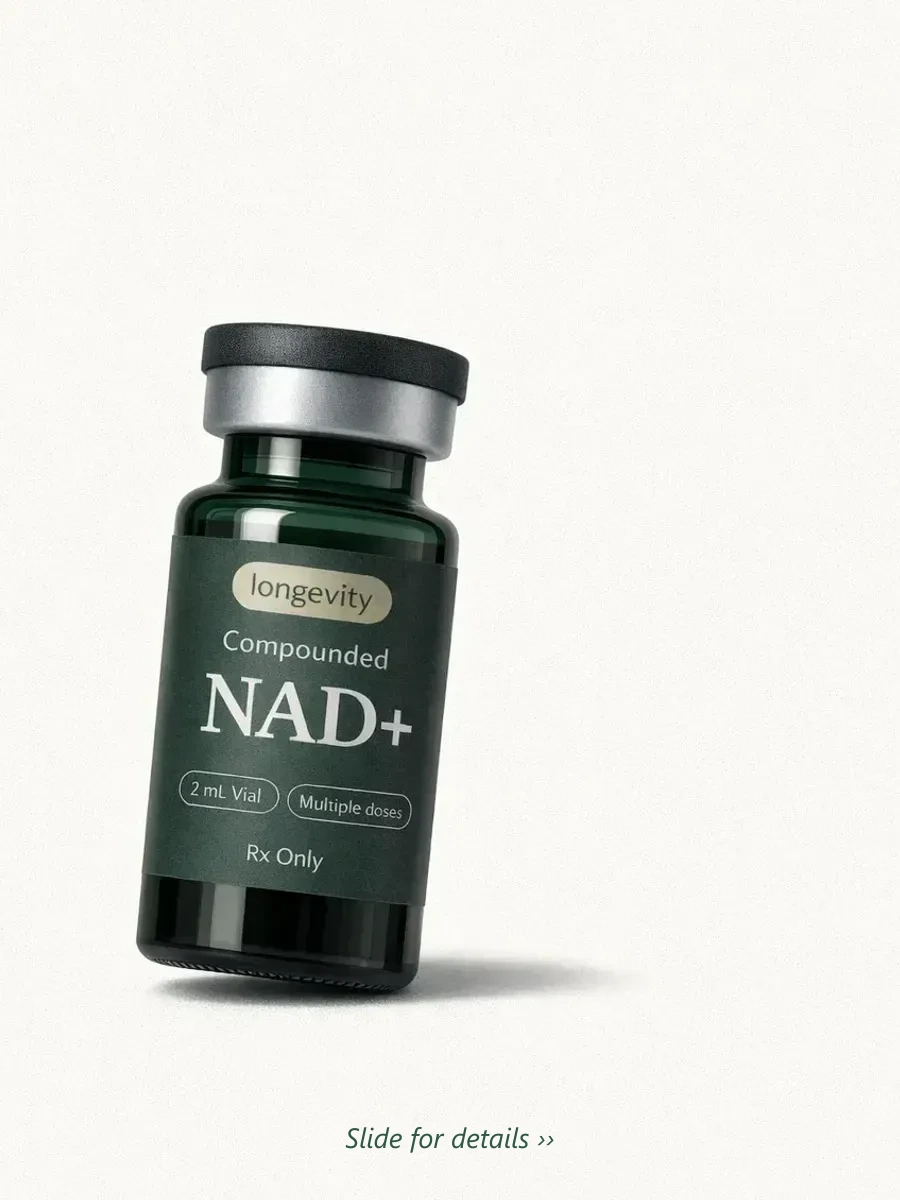
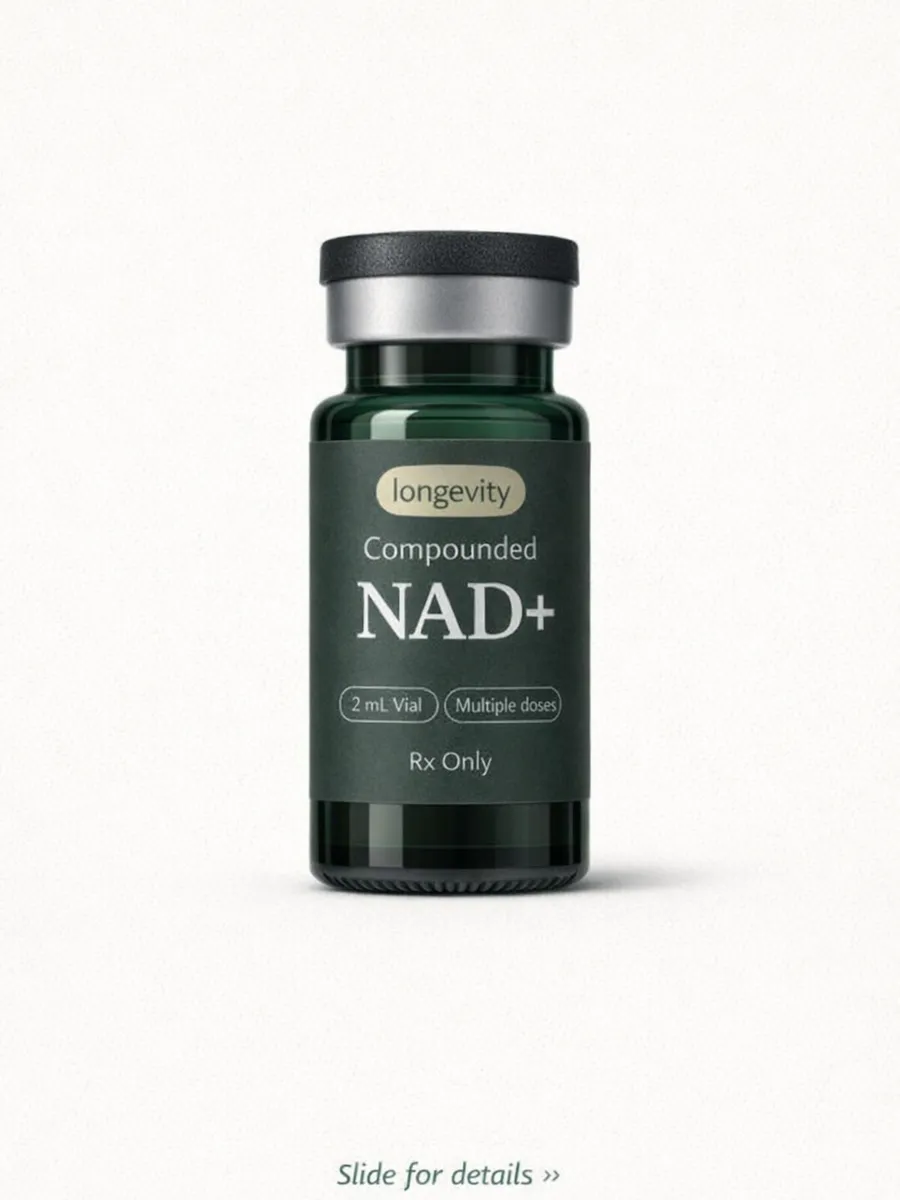
fix: per-product plan-details modal, gold CTA contrast, straighten NAD+ vial
- ProductInfoModal was hardcoded to the first medication's photo across
  all 4 verticals; now renders one modal per product and the toggle
  scripts show/hide the matching one
- .wl-goal/.wl-notsure gold text was ~2.6:1 contrast on white (below
  WCAG AA); darkened to #8a6a1f (~5:1)
- Regenerated slide-price-nad.webp so the vial stands upright, matching
  Sermorelin/Glutathione

Changed region(s): [[0.1556, 0.185, 0.7467, 0.8633], [0.3733, 0.925, 0.6222, 0.9867]]

diff --git a/public/assets/js/hl-script.js b/public/assets/js/hl-script.js
@@ -426,6 +426,15 @@ updateProductCarousel(0);
         dots.forEach((d, i) => {
             d.classList.toggle("active", i === 0);
         });
+
+        // Bug fix 2026-08-20: the "Plan Details & Shipping" popup used to be
+        // one static modal, always showing the first medication's photo
+        // regardless of the toggle. hair-loss.astro now renders one
+        // .pim-wrap per medication (hidden by default) — show the one that
+        // matches, hide the rest.
+        document.querySelectorAll(".pim-wrap[data-medication]").forEach((wrap) => {
+            wrap.style.display = wrap.getAttribute("data-medication") === medication ? "" : "none";
+        });
     }
 
     // =============================================

diff --git a/public/assets/js/sw-script.js b/public/assets/js/sw-script.js
@@ -255,6 +255,15 @@
         dots.forEach((d, i) => {
             d.classList.toggle("active", i === 0);
         });
+
+        // Bug fix 2026-08-20: the "Plan Details & Shipping" popup used to be
+        // one static modal, always showing the first medication's photo
+        // regardless of the toggle. sexual-wellness.astro now renders one
+        // .pim-wrap per medication (hidden by default) — show the one that
+        // matches, hide the rest.
+        document.querySelectorAll(".pim-wrap[data-medication]").forEach((wrap) => {
+            wrap.style.display = wrap.getAttribute("data-medication") === medication ? "" : "none";
+        });
     }
 
     // =============================================

diff --git a/public/assets/js/wl-script.js b/public/assets/js/wl-script.js
@@ -244,6 +244,15 @@
         dots.forEach((d, i) => {
             d.classList.toggle("active", i === 0);
         });
+
+        // Bug fix 2026-08-20: the "Plan Details & Shipping" popup used to be
+        // one static modal, always showing the first medication's photo
+        // regardless of the toggle. weight-loss.astro now renders one
+        // .pim-wrap per medication (hidden by default) — show the one that
+        // matches, hide the rest.
+        document.querySelectorAll(".pim-wrap[data-medication]").forEach((wrap) => {
+            wrap.style.display = wrap.getAttribute("data-medication") === medication ? "" : "none";
+        });
     }
 
     // =============================================

diff --git a/public/assets/js/longevity.js b/public/assets/js/longevity.js
@@ -283,6 +283,15 @@
         dots.forEach((d, i) => {
             d.classList.toggle("active", i === 0);
         });
+
+        // Bug fix 2026-08-20: the "Plan Details & Shipping" popup used to be
+        // one static modal, always showing the first medication's photo
+        // regardless of the toggle. longevity.astro now renders one
+        // .pim-wrap per medication (hidden by default) — show the one that
+        // matches, hide the rest.
+        document.querySelectorAll(".pim-wrap[data-medication]").forEach((wrap) => {
+            wrap.style.display = wrap.getAttribute("data-medication") === medication ? "" : "none";
+        });
     }
 
     // =============================================
